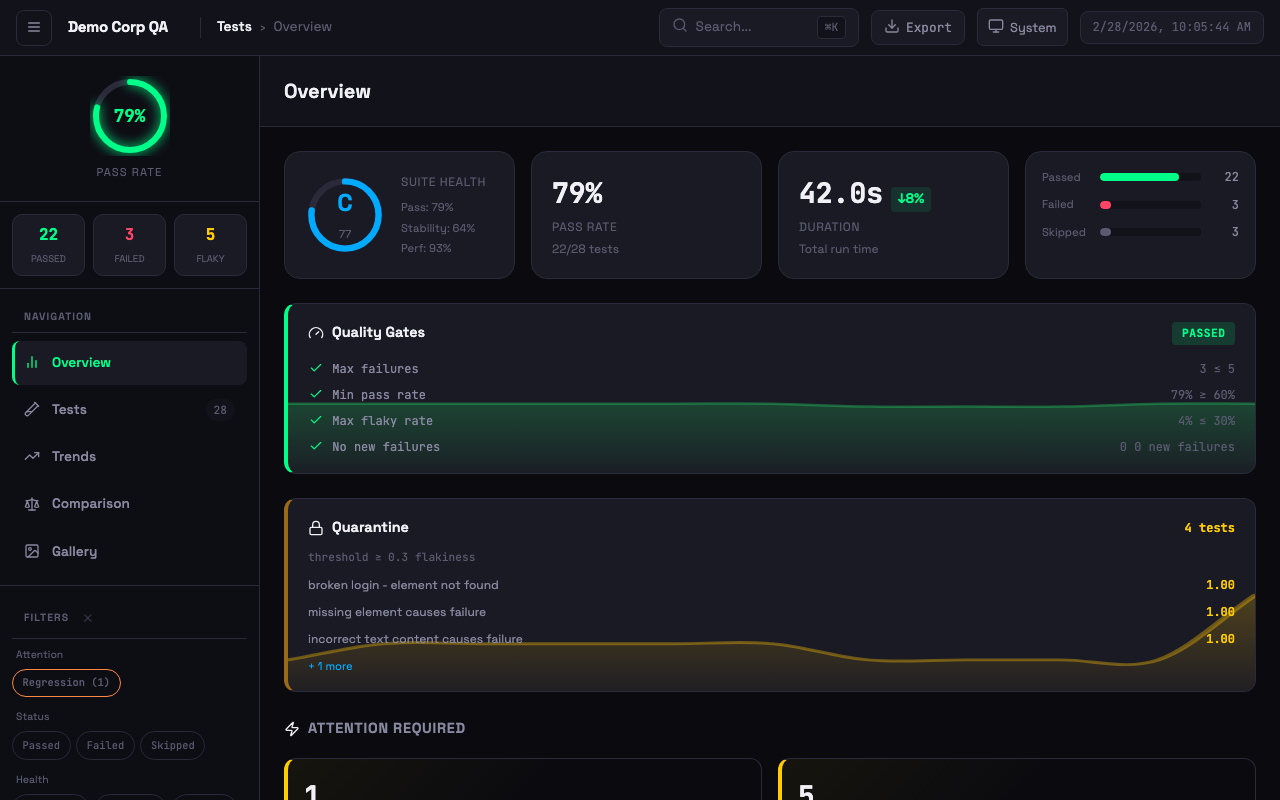
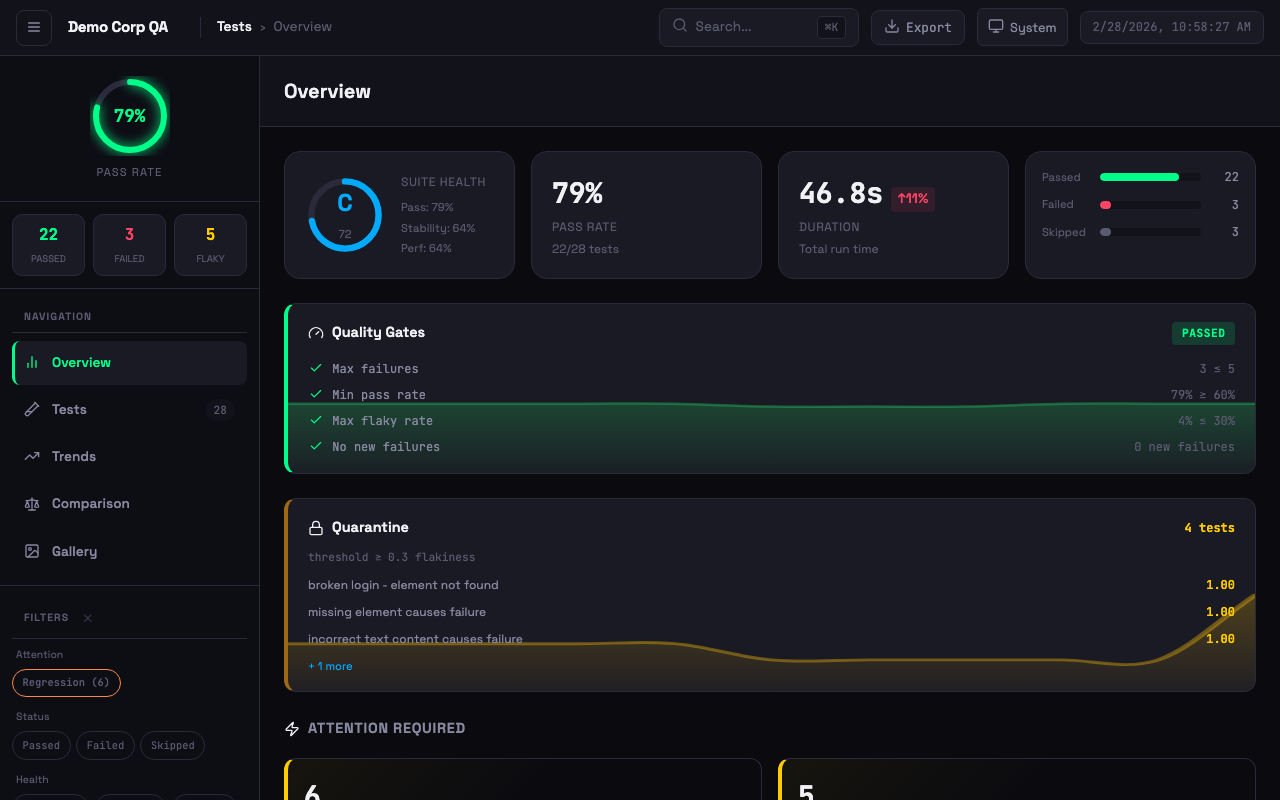
fix(gates): remove duplicate zero in 'no new failures' quality gate display
Threshold string included '0' prefix, producing '0 0 new failures'
when rendered alongside the actual value. Changed to 'new failures'
so the display reads '0 new failures'.

diff --git a/src/gates/quality-gate-evaluator.ts b/src/gates/quality-gate-evaluator.ts
@@ -140,7 +140,7 @@ export class QualityGateEvaluator {
         rule: 'noNewFailures',
         passed: true,
         actual: 'N/A',
-        threshold: '0 new failures',
+        threshold: 'new failures',
         skipped: true,
       };
     }
@@ -151,7 +151,7 @@ export class QualityGateEvaluator {
       rule: 'noNewFailures',
       passed: newFailureCount === 0,
       actual: String(newFailureCount),
-      threshold: '0 new failures',
+      threshold: 'new failures',
     };
   }
 }
